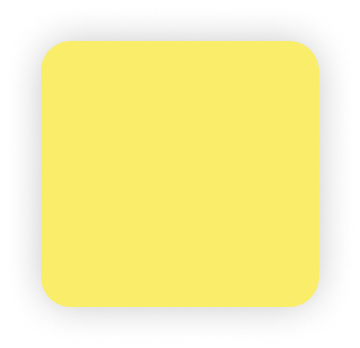
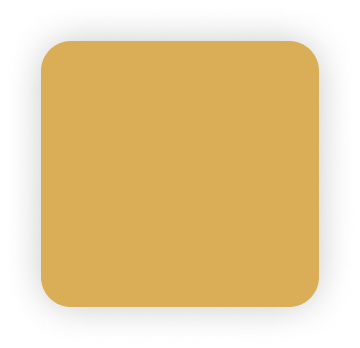
chnaged images and styles of onboard

diff --git a/lib/Pages/User_onboard2.dart b/lib/Pages/User_onboard2.dart
@@ -41,7 +41,7 @@ class user_onboard2 extends StatelessWidget {
                   Container(
                     decoration: BoxDecoration(
                         image: DecorationImage(
-                            image: AssetImage('assets/user_block1.png'),
+                            image: AssetImage('assets/user_block2.png'),
                             fit: BoxFit.fill
                         )
                     ),
@@ -56,6 +56,8 @@ class user_onboard2 extends StatelessWidget {
                             fontSize: 36,
                             fontFamily: 'poppins',
                             fontWeight: FontWeight.w600,
+                            color: Colors.grey[900],
+                            height: 1.2,
                           ),
                           textAlign: TextAlign.center,
                         ),
@@ -65,6 +67,8 @@ class user_onboard2 extends StatelessWidget {
                             fontSize: 18,
                             fontFamily: 'poppins',
                             fontWeight: FontWeight.w500,
+                            color: Colors.grey[800],
+
                           ),
                           textAlign: TextAlign.center,
                         )
@@ -80,9 +84,9 @@ class user_onboard2 extends StatelessWidget {
                 Navigator.pushNamed(context, 'onboard3');
               },
                 style: ElevatedButton.styleFrom(
-                    primary: Color.fromRGBO(249, 237, 105, 1),
+                    primary: Color.fromRGBO(245, 209, 0, 1),
                     side: BorderSide(width:1, color:Colors.black12), //border width and color
-                    elevation: 1,
+                    elevation: 5,
                     shape: RoundedRectangleBorder( //to set border radius to button
                         borderRadius: BorderRadius.circular(10)
                     ),
@@ -99,31 +103,7 @@ class user_onboard2 extends StatelessWidget {
                 ),
               ),
 
-              // ElevatedButton(
-              //     style: ElevatedButton.styleFrom(
-              //         primary: Color.fromRGBO(249, 237, 105, 1), //background color of button
-              //         side: BorderSide(width:1, color:Colors.black12), //border width and color
-              //         elevation: 1, //elevation of button
-              //         shape: RoundedRectangleBorder( //to set border radius to button
-              //             borderRadius: BorderRadius.circular(10)
-              //         ),
-              //         padding: EdgeInsets.fromLTRB(75, 15, 75, 15) //content padding inside button
-              //     ),
-              //     onPressed: (){
-              //       Navigator.push(
-              //         context,
-              //         MaterialPageRoute(builder: (context) => user_onboard3()),
-              //       );
-              //     },
-              //    child: Text('Login with Google',
-              //       style: TextStyle(color: Colors.black,
-              //           fontSize: 12,
-              //           fontFamily: 'poppins',
-              //           fontWeight: FontWeight.w600,
-              //    ),
-              //
-              //   ),
-              // ),
+
               SizedBox(height: 10),
               Text('Or'),
 
@@ -132,9 +112,9 @@ class user_onboard2 extends StatelessWidget {
                 Navigator.pushNamed(context, 'login');
               },
                   style: ElevatedButton.styleFrom(
-                    primary: Color.fromRGBO(249, 237, 105, 1),
+                      primary: Color.fromRGBO(245, 209, 0, 1),
                       side: BorderSide(width:1, color:Colors.black12), //border width and color
-                      elevation: 1,
+                      elevation: 5,
                       shape: RoundedRectangleBorder( //to set border radius to button
                           borderRadius: BorderRadius.circular(10)
                       ),

diff --git a/lib/Pages/User_onboard1.dart b/lib/Pages/User_onboard1.dart
@@ -11,9 +11,15 @@ class user_onboard1 extends StatelessWidget {
         child: Scaffold(
           resizeToAvoidBottomInset: false,
           body: Container(
-            decoration: new BoxDecoration(
-              color: Color.fromRGBO(245, 209, 0, 1),
+            decoration: BoxDecoration(
+              image: DecorationImage(image: AssetImage('assets/onboard_bg1.png'),
+                  fit: BoxFit.fill
+              ),
+
+
             ),
+            width: double.infinity,
+            height: double.infinity,
             child: Column(
               children: [
                 SizedBox(height: 30),
@@ -22,14 +28,10 @@ class user_onboard1 extends StatelessWidget {
                   children: [
                     SizedBox(width: 30),
                     Image.asset('assets/logo.png'),
-                    //SizedBox(width: 10),
-                    Image.asset('assets/user_img1.png',cacheHeight: 300,cacheWidth: 250,),
-                    // ClipRect(
-                    //   child: Image.asset('assets/user_img1.png'),
-                    // )
+
                   ],
                 ),
-                //SizedBox(height: 70),
+                SizedBox(height: 150),
 
                 Row(
                   mainAxisAlignment: MainAxisAlignment.center,
@@ -52,6 +54,8 @@ class user_onboard1 extends StatelessWidget {
                               fontSize: 36,
                               fontFamily: 'poppins',
                               fontWeight: FontWeight.w600,
+                              color: Colors.white,
+                              height: 1.2,
                             ),
                               textAlign: TextAlign.center,
                           ),
@@ -61,6 +65,7 @@ class user_onboard1 extends StatelessWidget {
                               fontSize: 18,
                               fontFamily: 'poppins',
                               fontWeight: FontWeight.w500,
+                                color: Colors.white
                             ),
                             textAlign: TextAlign.center,
                           )
@@ -74,7 +79,7 @@ class user_onboard1 extends StatelessWidget {
                 ElevatedButton(
                   style: ElevatedButton.styleFrom(
                       shape: CircleBorder(),
-                      primary: Color.fromRGBO(249, 237, 105, 1)
+                      primary: Color.fromRGBO(240, 205, 133, 1)
                   ),
                   child: Container(
                     width: 100,

diff --git a/lib/main.dart b/lib/main.dart
@@ -19,7 +19,7 @@ import 'package:airway_flutter/components/bottom_navbar.dart';
 
 
 void main() => runApp(MaterialApp(
-  initialRoute: 'user_onboard2',
+  initialRoute: 'user_onboard1',
   routes: {
    // '/': (context) => loading(),
     'user_onboard1':(context) => user_onboard1(),
